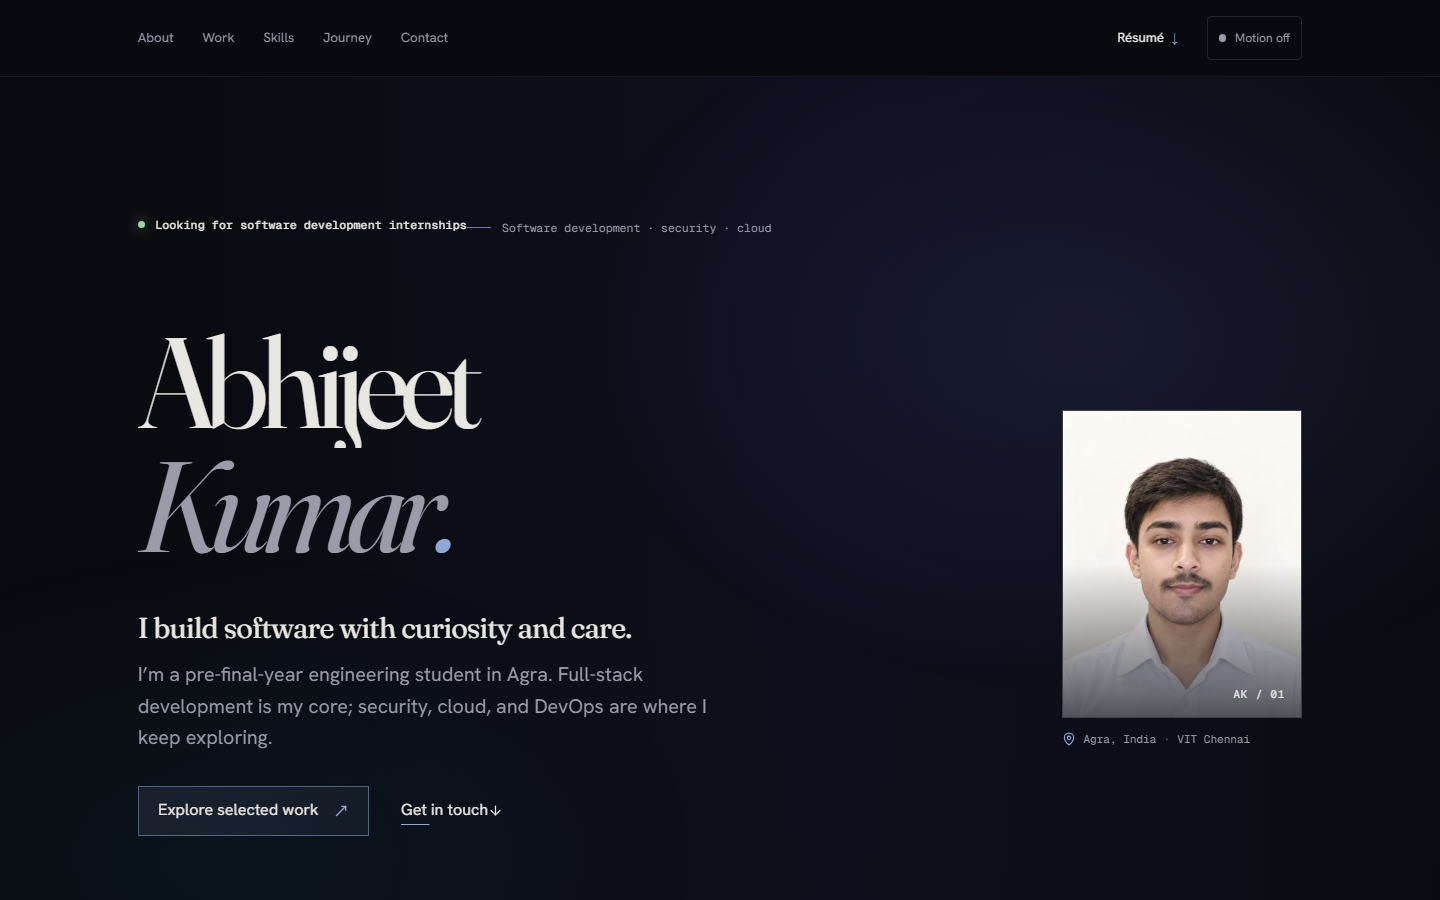
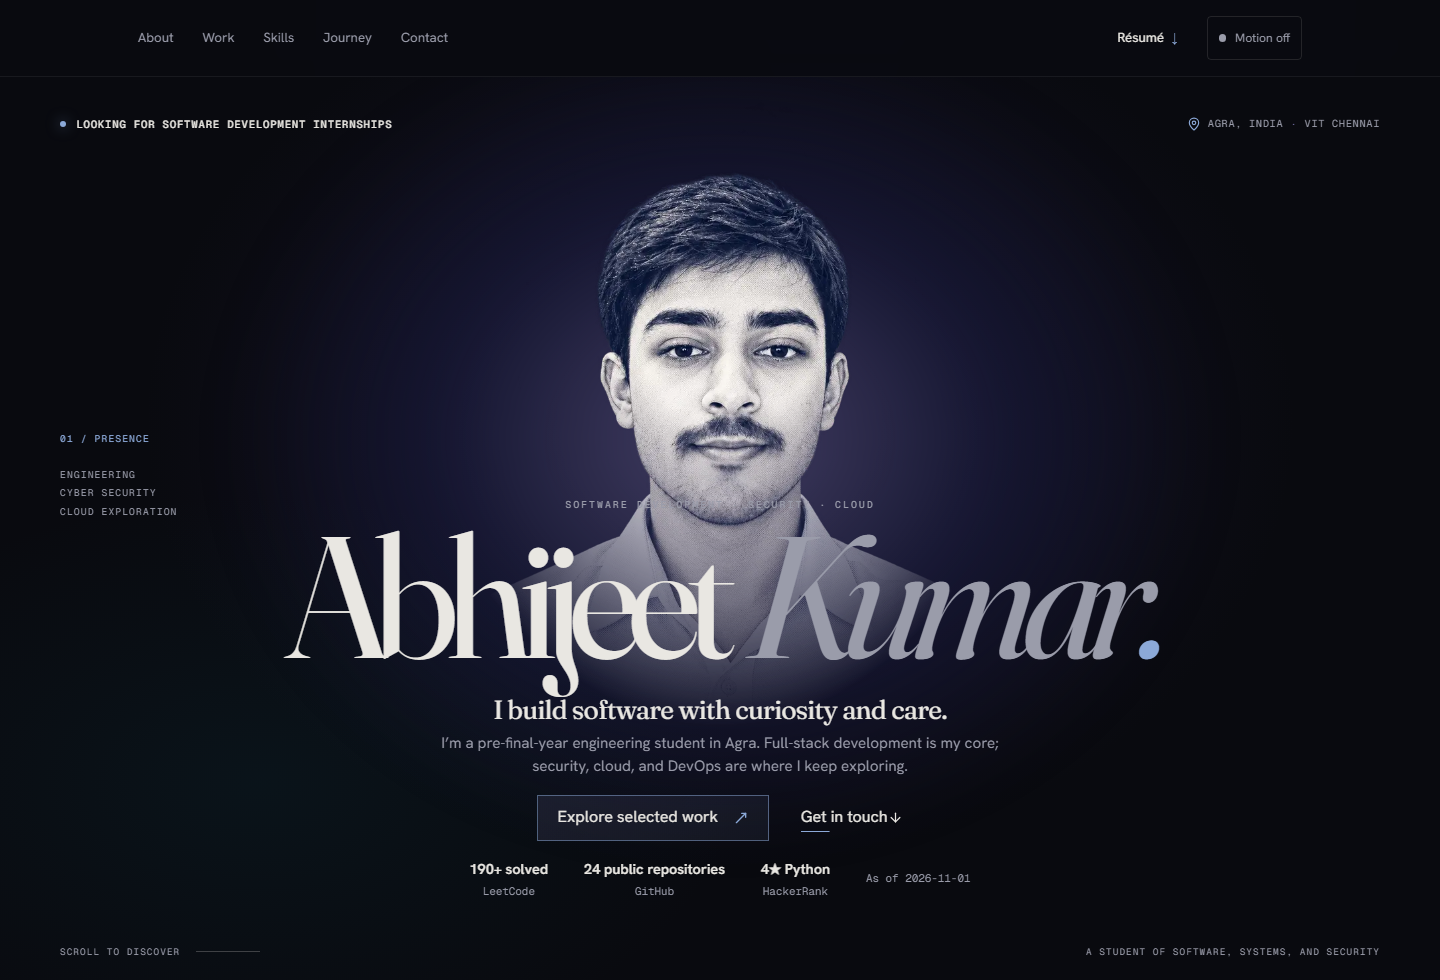
Refine editorial portrait hero and portfolio README

diff --git a/app/home.module.scss b/app/home.module.scss
@@ -1,42 +1,46 @@
 .hero {
   position: relative;
-  min-height: min(820px, calc(100svh - 76px));
+  height: clamp(760px, calc(100svh - 76px), 920px);
+  min-height: 760px;
   overflow: hidden;
-  padding-block: clamp(4.5rem, 9vw, 8.5rem) clamp(5.5rem, 10vw, 8rem);
+  isolation: isolate;
   background:
-    radial-gradient(ellipse at 76% 26%, rgb(63 67 120 / 24%), transparent 33rem),
-    radial-gradient(ellipse at 15% 78%, rgb(15 76 92 / 14%), transparent 30rem);
+    radial-gradient(ellipse at 50% 38%, rgb(59 42 107 / 30%), transparent 36rem),
+    radial-gradient(ellipse at 18% 78%, rgb(15 76 92 / 14%), transparent 30rem),
+    var(--void);
 }
 
-.heroGrid { position: relative; z-index: 1; display: grid; grid-template-columns: minmax(0, 1.25fr) minmax(240px, 0.65fr); align-items: center; gap: clamp(3rem, 8vw, 8rem); }
-.heroCopy { position: relative; z-index: 1; }
-.availability { display: inline-flex; min-height: 36px; align-items: center; gap: 0.65rem; margin-bottom: clamp(2.4rem, 5vw, 4rem); color: var(--bone); font: 500 0.72rem var(--font-mono); letter-spacing: 0.015em; }
-.availability > span { width: 7px; height: 7px; border-radius: 50%; background: #9dd4a9; box-shadow: 0 0 14px rgb(157 212 169 / 70%); }
-.hero h1 { display: flex; flex-direction: column; margin-top: 1.1rem; font-family: var(--font-display); font-size: clamp(4rem, 8.9vw, 8.8rem); font-weight: 400; letter-spacing: -0.065em; line-height: 0.91; }
-.hero h1 > span { display: block; overflow: hidden; padding-bottom: 0.06em; }
+.portraitGlow { position: absolute; z-index: 0; top: -3%; left: 50%; width: min(76vw, 940px); height: 86%; border-radius: 50%; background: radial-gradient(ellipse, rgb(119 115 168 / 48%) 0%, rgb(27 31 75 / 42%) 42%, transparent 74%); filter: blur(30px); transform: translateX(-50%); pointer-events: none; }
+.heroPortrait { position: absolute; z-index: 0; top: 0; left: 50%; width: min(54vw, 640px); height: min(72%, 650px); min-height: 520px; transform: translateX(-50%); pointer-events: none; }
+.portraitImage { object-fit: contain; object-position: center top; mask-image: radial-gradient(ellipse 60% 100% at 50% 0%, #000 52%, transparent 100%); -webkit-mask-image: radial-gradient(ellipse 60% 100% at 50% 0%, #000 52%, transparent 100%); }
+.heroFrame { position: relative; z-index: 1; height: 100%; }
+.heroTopline { position: absolute; top: 1.8rem; right: 0; left: 0; display: flex; align-items: center; justify-content: space-between; gap: 2rem; }
+.availability { display: inline-flex; min-height: 36px; align-items: center; gap: 0.65rem; margin: 0; color: var(--bone); font: 500 0.66rem var(--font-mono); letter-spacing: 0.08em; text-transform: uppercase; }
+.availability > span { width: 6px; height: 6px; border-radius: 50%; background: var(--ice); box-shadow: 0 0 14px rgb(140 169 216 / 65%); }
+.location { display: flex; align-items: center; gap: 0.45rem; margin: 0; color: var(--mist); font: 0.64rem var(--font-mono); letter-spacing: 0.07em; text-transform: uppercase; }
+.location svg { color: var(--ice); }
+.location > span { color: var(--violet); }
+.heroSideNote { position: absolute; top: 39%; left: 0; display: grid; gap: 1.15rem; color: var(--mist); font: 0.6rem/1.9 var(--font-mono); letter-spacing: 0.12em; text-transform: uppercase; }
+.sideIndex { color: var(--ice); }
+.heroContent { position: absolute; right: 0; bottom: 5.1rem; left: 0; display: flex; flex-direction: column; align-items: center; text-align: center; }
+.heroEyebrow { margin-bottom: 0.6rem; color: var(--mist); font: 500 0.62rem var(--font-mono); letter-spacing: 0.2em; text-transform: uppercase; }
+.hero h1 { display: flex; width: 100%; align-items: baseline; justify-content: center; gap: 0.14em; margin: 0; color: var(--bone); font-family: var(--font-display); font-size: clamp(4.5rem, 12vw, 11.5rem); font-weight: 400; letter-spacing: -0.075em; line-height: 0.88; white-space: nowrap; }
+.hero h1 > span { display: block; padding-bottom: 0.07em; }
 .titleSoft { color: var(--mist); font-family: var(--font-fraunces-italic); font-style: italic; }
 .period { color: var(--ice); }
-.heroStatement { max-width: 35ch; margin-top: clamp(1.5rem, 3vw, 2.3rem); color: var(--bone); font-family: var(--font-display); font-size: clamp(1.35rem, 2.1vw, 1.8rem); letter-spacing: -0.025em; line-height: 1.25; }
-.heroIntro { max-width: 55ch; margin-top: 0.85rem; color: var(--mist); font-size: clamp(1.05rem, 1.6vw, 1.23rem); line-height: 1.6; }
-.heroActions { display: flex; flex-wrap: wrap; align-items: center; gap: 1rem 2rem; margin-top: 2rem; }
-.primaryLink { display: inline-flex; min-height: 50px; align-items: center; gap: 0.9rem; padding: 0 1.2rem; border: 1px solid rgb(140 169 216 / 50%); color: var(--bone); background: linear-gradient(100deg, rgb(119 115 168 / 15%), rgb(140 169 216 / 7%)); transition: border-color var(--duration-base) ease, background var(--duration-base) ease; }
+.heroStatement { max-width: 35ch; margin-top: 0.55rem; color: var(--bone); font-family: var(--font-display); font-size: clamp(1.2rem, 2vw, 1.65rem); letter-spacing: -0.025em; line-height: 1.25; }
+.heroIntro { max-width: 66ch; margin-top: 0.4rem; color: var(--mist); font-size: clamp(0.82rem, 1.05vw, 0.98rem); line-height: 1.5; }
+.heroActions { display: flex; flex-wrap: wrap; align-items: center; justify-content: center; gap: 0.75rem 2rem; margin-top: 1.05rem; }
+.primaryLink { display: inline-flex; min-height: 46px; align-items: center; gap: 0.9rem; padding: 0 1.2rem; border: 1px solid rgb(140 169 216 / 50%); color: var(--bone); background: linear-gradient(100deg, rgb(119 115 168 / 15%), rgb(140 169 216 / 7%)); transition: border-color var(--duration-base) ease, background var(--duration-base) ease; }
 .primaryLink:hover { border-color: var(--ice); background: rgb(140 169 216 / 15%); }
 .primaryLink svg { color: var(--ice); }
-.proofStrip { display: grid; grid-template-columns: repeat(3, max-content) 1fr; align-items: center; gap: 0.5rem clamp(1rem, 2.5vw, 2.4rem); margin-top: clamp(2.6rem, 5vw, 4.5rem); }
+.proofStrip { display: grid; grid-template-columns: repeat(3, max-content) max-content; align-items: center; justify-content: center; gap: 0.5rem clamp(1rem, 2.5vw, 2.4rem); margin-top: 1.05rem; }
 .proofStrip a { display: flex; min-height: 42px; flex-direction: column; justify-content: center; gap: 0.15rem; }
 .proofStrip strong { font-size: 0.9rem; font-weight: 600; }
 .proofStrip a span, .proofStrip small { color: var(--mist); font: 0.68rem var(--font-mono); }
-.proofStrip small { align-self: end; padding-bottom: 0.5rem; }
-.heroPortrait { position: relative; width: min(100%, 240px); justify-self: end; }
-.portraitFrame { position: relative; width: 100%; aspect-ratio: 0.78; overflow: hidden; border: 1px solid rgb(233 231 226 / 18%); background: var(--raised); }
-.portraitFrame::after { position: absolute; inset: 50% 0 0; content: ""; background: linear-gradient(0deg, rgb(9 10 15 / 68%), transparent); pointer-events: none; }
-.portraitImage { object-fit: cover; object-position: 50% 22%; filter: saturate(0.72) contrast(1.02); }
-.portraitIndex { position: absolute; z-index: 1; right: 1rem; bottom: 1rem; color: var(--bone); font: 0.68rem var(--font-mono); letter-spacing: 0.08em; }
-.location { display: flex; align-items: center; gap: 0.45rem; margin-top: 0.85rem; color: var(--mist); font: 0.69rem var(--font-mono); }
-.location svg { color: var(--ice); }
-.location > span { color: var(--violet); }
-.heroFoot { position: absolute; right: var(--gutter); bottom: 2rem; left: var(--gutter); display: flex; max-width: calc(var(--content-width) - var(--gutter) * 2); align-items: center; gap: 1rem; margin-inline: auto; color: var(--mist); font: 0.64rem var(--font-mono); text-transform: uppercase; letter-spacing: 0.08em; }
+.heroFoot { position: absolute; right: 0; bottom: 1.45rem; left: 0; display: flex; align-items: center; gap: 1rem; color: var(--mist); font: 0.58rem var(--font-mono); text-transform: uppercase; letter-spacing: 0.12em; }
 .heroRule { width: 4rem; height: 1px; background: var(--line-strong); }
+.heroFootNote { margin-left: auto; }
 
 .sectionKicker { display: flex; align-items: center; justify-content: space-between; gap: 1rem; margin-bottom: clamp(2rem, 5vw, 4.5rem); }
 .sectionKicker > .monoLabel { text-align: right; }
@@ -98,27 +102,39 @@
 .casualPhoto img { object-position: center 30%; }
 
 @media (max-width: 900px) {
-  .hero { min-height: auto; }
-  .heroGrid { grid-template-columns: minmax(0, 1fr) minmax(200px, 0.55fr); gap: 2.5rem; }
-  .hero h1 { font-size: clamp(3.8rem, 9vw, 6.6rem); }
-  .heroPortrait { width: min(100%, 240px); }
-  .proofStrip { grid-template-columns: repeat(3, max-content); gap: 0.5rem 1.4rem; }
-  .proofStrip small { grid-column: 1 / -1; justify-self: start; }
+  .hero { height: 820px; min-height: 760px; }
+  .heroPortrait { width: min(72vw, 560px); height: 82%; }
+  .heroSideNote { left: 0; font-size: 0.54rem; }
+  .hero h1 { font-size: clamp(4.5rem, 10vw, 8.5rem); }
+  .heroContent { bottom: 4.8rem; }
+  .heroIntro { max-width: 58ch; }
+  .proofStrip { grid-template-columns: repeat(3, max-content); gap: 0.45rem 1.4rem; }
+  .proofStrip small { grid-column: 1 / -1; justify-self: center; }
   .aboutGrid, .journeyGrid, .offDutyGrid { gap: 3rem; }
   .photoStory, .offDutyPhotos { min-height: 390px; }
 }
 
 @media (max-width: 640px) {
-  .hero { padding-top: 3.7rem; padding-bottom: 6.5rem; }
-  .heroGrid { grid-template-columns: 1fr; gap: 2.5rem; }
-  .availability { margin-bottom: 2.2rem; }
-  .hero h1 { font-size: clamp(3.4rem, 14vw, 5.8rem); }
-  .heroPortrait { width: min(72%, 300px); justify-self: center; }
-  .portraitFrame { aspect-ratio: 0.87; }
-  .proofStrip { grid-template-columns: repeat(3, minmax(0, max-content)); gap: 0.4rem 1rem; }
+  .hero { height: 960px; min-height: 920px; }
+  .heroTopline { top: 1rem; flex-direction: column; align-items: center; gap: 0.15rem; }
+  .availability { min-height: 30px; font-size: 0.55rem; }
+  .location { font-size: 0.55rem; }
+  .heroPortrait { top: 5rem; width: min(100vw, 520px); height: 590px; min-height: 0; }
+  .portraitGlow { top: 5%; width: 120vw; height: 62%; }
+  .heroSideNote { display: none; }
+  .heroContent { right: 0.25rem; bottom: 4.8rem; left: 0.25rem; }
+  .heroEyebrow { margin-bottom: 0.5rem; font-size: 0.52rem; letter-spacing: 0.14em; }
+  .hero h1 { flex-direction: column; align-items: center; gap: 0; font-size: clamp(3.9rem, 16vw, 5.8rem); line-height: 0.78; white-space: normal; }
+  .heroStatement { margin-top: 0.9rem; font-size: 1.2rem; }
+  .heroIntro { max-width: 39ch; margin-top: 0.45rem; font-size: 0.82rem; line-height: 1.45; }
+  .heroActions { gap: 0.45rem 1.1rem; margin-top: 0.8rem; }
+  .primaryLink { min-height: 44px; }
+  .proofStrip { grid-template-columns: repeat(3, minmax(0, max-content)); gap: 0.35rem 1rem; margin-top: 0.65rem; }
   .proofStrip strong { font-size: 0.78rem; }
   .proofStrip a span, .proofStrip small { font-size: 0.59rem; }
-  .heroFoot { bottom: 1.5rem; }
+  .proofStrip a { min-height: 36px; }
+  .heroFoot { bottom: 0.85rem; font-size: 0.48rem; letter-spacing: 0.07em; }
+  .heroFootNote, .heroRule { display: none; }
   .sectionKicker { align-items: start; }
   .sectionKicker > .monoLabel { max-width: 13ch; font-size: 0.57rem; }
   .aboutGrid, .journeyGrid, .offDutyGrid { grid-template-columns: 1fr; gap: 2.5rem; }

diff --git a/app/page.tsx b/app/page.tsx
@@ -25,10 +25,21 @@ export default function HomePage() {
       ]} />
       <section className={styles.hero} id="top" aria-labelledby="hero-title">
         <HeroAtmosphere />
-        <div className={`pageShell ${styles.heroGrid}`}>
-          <div className={styles.heroCopy}>
-            <div className={styles.availability}><span aria-hidden="true" /> Looking for software development internships</div>
-            <p className="sectionEyebrow">Software development · security · cloud</p>
+        <div className={styles.portraitGlow} aria-hidden="true" />
+        <div className={styles.heroPortrait} aria-hidden="true">
+          <Image src="/images/profile/portrait-hero-halftone.png" alt="" fill priority fetchPriority="high" sizes="(max-width: 640px) 50vw, (max-width: 1100px) 68vw, 720px" className={styles.portraitImage} />
+        </div>
+        <div className={`pageShell ${styles.heroFrame}`}>
+          <div className={styles.heroTopline}>
+            <p className={styles.availability}><span aria-hidden="true" /> Looking for software development internships</p>
+            <p className={styles.location}><MapPin aria-hidden="true" size={14} /> Agra, India <span>·</span> VIT Chennai</p>
+          </div>
+          <aside className={styles.heroSideNote} aria-label="Areas of focus">
+            <span className={styles.sideIndex}>01 / PRESENCE</span>
+            <span>Engineering<br />Cyber security<br />Cloud exploration</span>
+          </aside>
+          <div className={styles.heroContent}>
+            <p className={styles.heroEyebrow}>Software development · security · cloud</p>
             <h1 id="hero-title" aria-label="Abhijeet Kumar">
               <span data-hero-word>Abhijeet</span>
               <span data-hero-word className={styles.titleSoft}>Kumar<span className={styles.period}>.</span></span>
@@ -48,15 +59,11 @@ export default function HomePage() {
               <small>As of {site.proofAsOf}</small>
             </div>
           </div>
-          <div className={styles.heroPortrait}>
-            <div className={styles.portraitFrame}>
-              <Image src="/images/profile/portrait-professional.png" alt="Portrait in a white shirt" fill sizes="(max-width: 800px) 70vw, 35vw" className={styles.portraitImage} />
-              <span className={styles.portraitIndex}>AK / 01</span>
-            </div>
-            <p className={styles.location}><MapPin aria-hidden="true" size={14} /> Agra, India <span>·</span> VIT Chennai</p>
+          <div className={styles.heroFoot} aria-hidden="true">
+            <span>Scroll to discover</span><span className={styles.heroRule} />
+            <span className={styles.heroFootNote}>A student of software, systems, and security</span>
           </div>
         </div>
-        <div className={styles.heroFoot} aria-hidden="true"><span>Scroll to explore</span><span className={styles.heroRule} /></div>
       </section>
 
       <section className={`pageShell ${styles.about} sectionSpace`} id="about" aria-labelledby="about-title">

diff --git a/next.config.ts b/next.config.ts
@@ -8,7 +8,7 @@ const nextConfig: NextConfig = {
   reactStrictMode: true,
   experimental: { cpus: 2 },
   images: {
-    formats: ["image/avif", "image/webp"],
+    formats: ["image/webp"],
     minimumCacheTTL: 60 * 60 * 24 * 30,
   },
 };

diff --git a/README.md b/README.md
@@ -1,53 +1,87 @@
-# Abhijeet Kumar — Portfolio
+# Abhijeet Kumar
 
-A personal portfolio for selected software projects, internship experience, and current areas of learning.
+**Software development · Cyber security · Cloud**
 
-![Portfolio homepage preview](docs/portfolio-preview.png)
+Pre-final-year B.Tech CSE (Cyber Security) student at VIT Chennai, building practical software and learning how it reaches people.
+
+[Repository](https://github.com/ABHI2005jeet/PORTFOLIO) · [GitHub](https://github.com/ABHI2005jeet) · [LinkedIn](https://www.linkedin.com/in/abhijeet-kumar-357ba5329/) · [Résumé](public/resume/Abhijeet_Kumar_Resume_Final_v8.pdf)
+
+![Portfolio homepage](docs/portfolio-preview.png)
+
+This portfolio brings together selected projects, internship experience, and current learning across software engineering, security, cloud, and DevOps. The visual direction keeps the site personal while making the work easy to explore.
+
+## What’s here
+
+- **15 project pages** with summaries, technologies, source links, and contribution details.
+- **Experience and education** drawn from my résumé.
+- **Skills explorer** with keyboard-accessible tabs and project filters.
+- **Off-duty section** with the interests and five photos I chose to share.
+- **Résumé and contact links** in the site navigation.
 
 ## Built with
 
-Next.js App Router, React, TypeScript, SCSS Modules, GSAP, and Three.js. The hero remains readable before the visual effect loads and when motion is disabled.
+| Area | Tools |
+| --- | --- |
+| App | Next.js App Router, React, TypeScript |
+| Styling | SCSS Modules, local Fraunces and Hanken Grotesk fonts |
+| Motion and visuals | GSAP, Three.js, custom shader atmosphere |
+| Quality | Playwright, axe-core, ESLint, TypeScript |
+| Hosting target | Vercel |
+
+The page content is server-rendered. Motion respects `prefers-reduced-motion`, can be switched off in the site header, and the WebGL atmosphere is deferred to compatible desktop devices.
+
+## Performance and checks
+
+Three Lighthouse runs against the local production build; values below are medians. The mobile profile uses Lighthouse’s mobile emulation and the desktop profile uses its desktop preset.
+
+| Lighthouse metric | Mobile | Desktop |
+| --- | ---: | ---: |
+| Performance | 86 | 99 |
+| Accessibility | 100 | 100 |
+| Best practices | 100 | 100 |
+| SEO | 100 | 100 |
+| Largest Contentful Paint | 4.05 s | 0.87 s |
+| First Contentful Paint | 1.07 s | 0.30 s |
+| Total Blocking Time | 108 ms | 51 ms |
+| Cumulative Layout Shift | 0.010 | 0.030 |
+
+The scores are snapshots from Lighthouse 13.6.0 and Chrome on a local machine; real devices and networks will vary. The browser suite passes **41 checks**, including WCAG 2.2 AA axe scans on all 17 public routes and overflow checks at 360, 390, 768, 1024, 1440, and 1920 pixels.
 
 ## Run locally
 
+Requires Node.js 20.9 or later.
+
 ```bash
-npm install
+npm ci
 npm run dev
 ```
 
-Open `http://localhost:3000`.
+Open [http://localhost:3000](http://localhost:3000).
 
-## Update the content
-
-| File | Content |
-| --- | --- |
-| `content/site.ts` | Profile details, links, and dated proof values |
-| `content/projects.ts` | Project summaries, links, case studies, and visibility |
-| `content/experience.ts` | Education and internship timeline |
-| `content/skills.ts` | Skill tracks and experience levels |
-| `content/offduty.ts` | Personal interests |
-
-Set a project's visibility to `featured`, `listed`, or `hidden`. Hidden projects are excluded from the site and generated text feeds.
-
-### Photos and résumé
-
-Replace the image files under `public/images/` while keeping their filenames to update the portraits without changing code. Put the résumé at `public/resume/Abhijeet_Kumar_Resume_Final_v8.pdf`; the header links to that file.
-
-## Checks
+Useful checks:
 
 ```bash
 npm run lint
 npm run typecheck
 npm run build
 npm run test:e2e
-npm run analyze
 npm run audit
 ```
 
-## Deploy to Vercel
+## Update portfolio content
 
-Import this GitHub repository into Vercel and keep the detected Next.js settings. After the first deployment, set `NEXT_PUBLIC_SITE_URL` to the assigned production URL and redeploy; this enables canonical URLs and the production sitemap entries. No custom domain is currently configured.
+| File | Content |
+| --- | --- |
+| `content/site.ts` | Profile, social links, and dated profile figures |
+| `content/projects.ts` | Project descriptions, links, visibility, and contributions |
+| `content/experience.ts` | Education and experience timeline |
+| `content/skills.ts` | Skill groups and learning tracks |
+| `content/offduty.ts` | Personal interests |
 
-## Notes
+Project visibility can be set to `featured`, `listed`, or `hidden`. Hidden projects are left out of the site and generated text feeds. Replace images under `public/images/` with files of the same names to update the photos; the résumé path is `public/resume/Abhijeet_Kumar_Resume_Final_v8.pdf`.
 
-The résumé and project facts are maintained in `content/`. Decisions and details that still need confirmation are in `TODO.md` and `ASSUMPTIONS.md`. Font files and their open licenses are in `public/fonts/`.
+## Deploy
+
+The repository is ready to import into Vercel with the detected Next.js settings. After the first deployment, set `NEXT_PUBLIC_SITE_URL` to the assigned Vercel URL and redeploy to enable canonical URLs and production sitemap entries. No custom domain is configured.
+
+Project facts and remaining follow-ups are tracked in [`ASSUMPTIONS.md`](ASSUMPTIONS.md) and [`TODO.md`](TODO.md).
